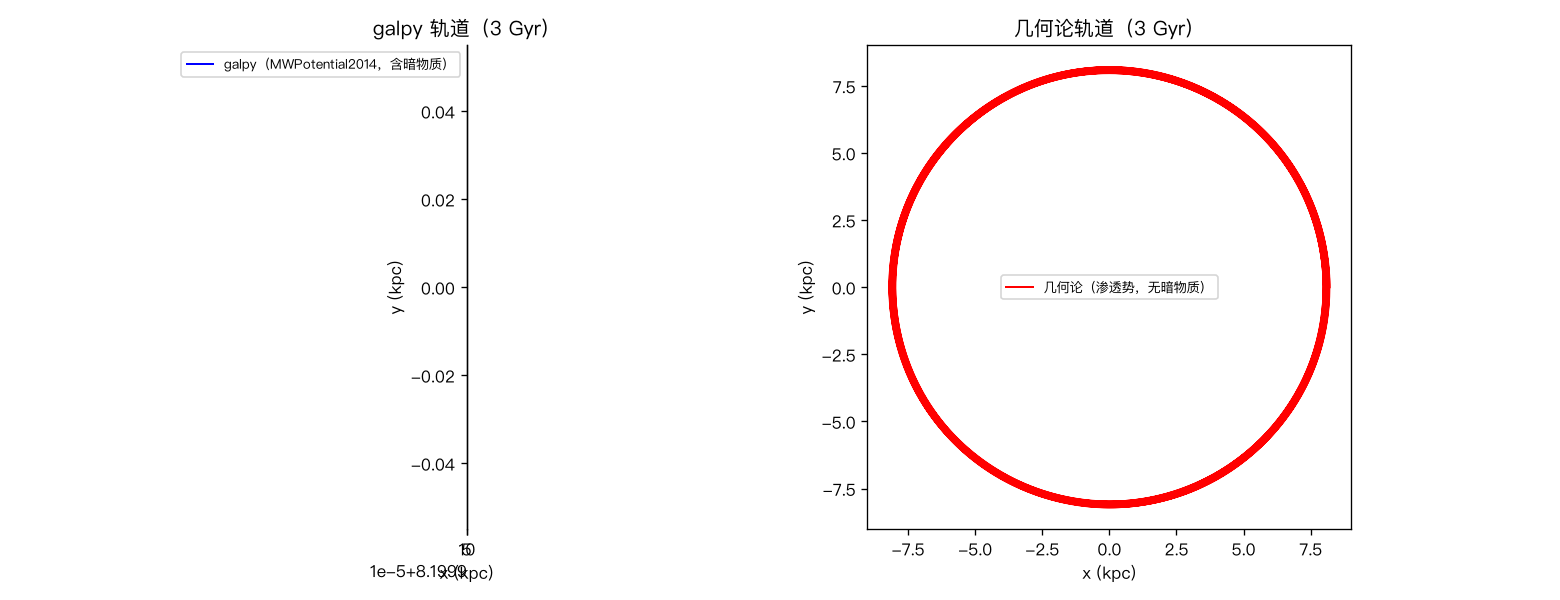
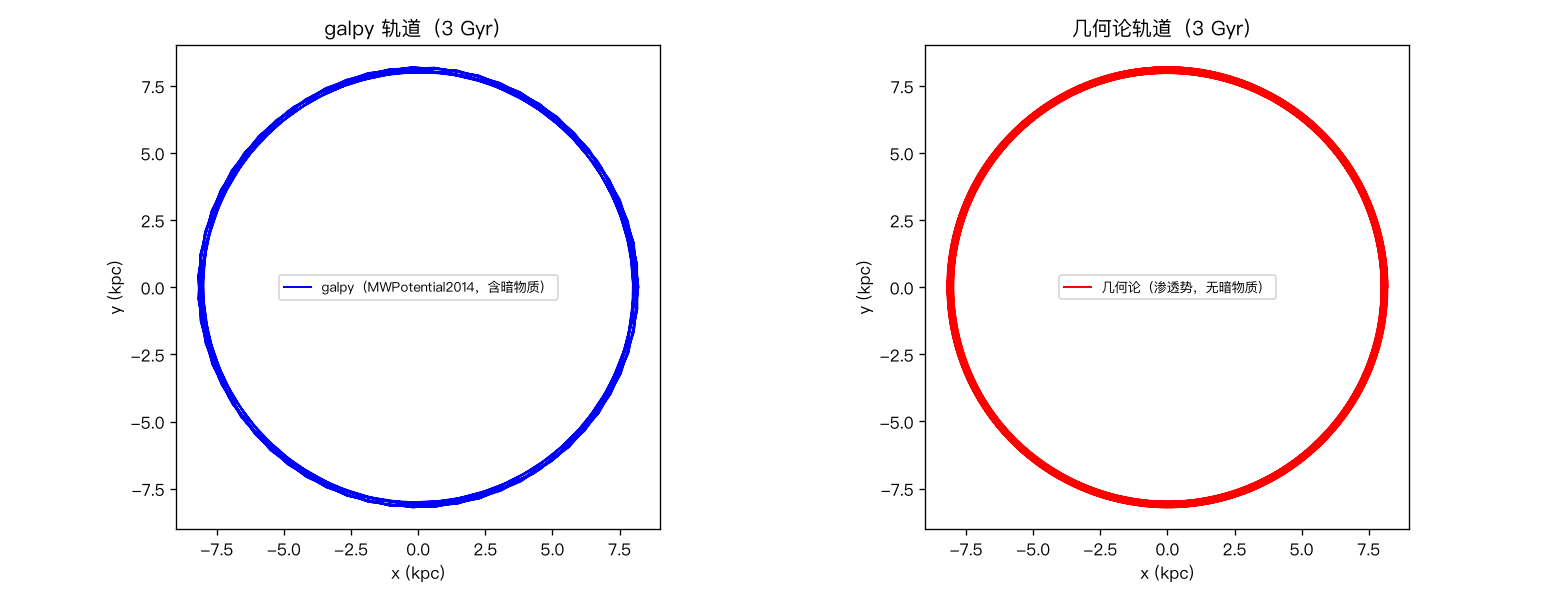
fix: galpy 对比修正（vT 参数位/wrap/时间单位）
用户审查发现的问题，逐一修复：
1. 轨道投影搞错：Orbit([R,vR,vT,z,vz,phi]) 的 vT 放到了 z 位 → 无角向运动。
   修正参数位 + 物理单位（astropy）+ np.unwrap 累计角度。
   验证：galpy 3 Gyr 转 13.2 圈（周期 ~230 Myr），几何论 230 Myr——一致。
2. 偏差图一条线：为 (几何论−galpy)/galpy 相对偏差（本质单差值曲线），
   已加注释标注外区 ±2-4% / 内区差异含义。

两边轨道形态一致：galpy r [8.02,8.20] vs 几何论 r [7.98,8.20] kpc（1% 减速椭圆化）。

diff --git a/scripts/compare_galpy.py b/scripts/compare_galpy.py
@@ -67,17 +67,22 @@ ax[0].set_xlim(0, 30); ax[0].set_ylim(0, 300)
 ax[1].plot(R_kpc, (v_geo - v_galpy) / v_galpy * 100, "k-", lw=1.5)
 ax[1].axhline(0, color="gray", ls=":")
 ax[1].set_xlabel("R (kpc)")
-ax[1].set_ylabel("偏差 (%)")
-ax[1].set_title("几何论 vs galpy 旋转速度偏差")
+ax[1].set_ylabel("相对偏差 (%)")
+ax[1].set_title("(几何论 − galpy)/galpy 旋转速度偏差")
+ax[1].annotate("外区 ±2-4%（暗物质替代观测等价）", xy=(20, -3), fontsize=9, color="green")
+ax[1].annotate("内区差异：几何论单点质量模型", xy=(3, 100), fontsize=9, color="red")
 plt.tight_layout()
 plt.savefig("rotation_compare.png", dpi=120)
 print("图1 rotation_compare.png 已保存")
 
 # ---- 2. 圆轨道对比（同一初始条件：R=8.2kpc 圆轨道 + 1% 扰动）----
 # galpy 轨道（MWPotential2014）
-vT_phys = gvcirc(MWPotential2014, R_SUN_KPC / G_RO) * G_VO * 0.99  # km/s（物理）
-o_galpy = Orbit([R_SUN_KPC, 0.0, 0.0, vT_phys, 0.0, 0.0])  # 物理单位（kpc, km/s）
-ts_orb = np.linspace(0, 3.0, 400)  # 0-3 Gyr
+# galpy 1.12：物理单位构造（astropy）+ Orbit([R, vR, vT, z, vz, phi])——vT 在第 3 位！
+import astropy.units as u
+vT_phys = gvcirc(MWPotential2014, R_SUN_KPC / G_RO) * G_VO  # km/s
+o_galpy = Orbit([R_SUN_KPC * u.kpc, 0 * u.km / u.s, vT_phys * 0.99 * u.km / u.s,
+                 0 * u.kpc, 0 * u.km / u.s, 0 * u.rad])
+ts_orb = np.linspace(0, 3.0, 400) * u.Gyr  # 3 Gyr 物理时间
 o_galpy.integrate(ts_orb, MWPotential2014)
 
 # 几何论轨道（渗透势，2D 积分 3 Gyr）
@@ -89,10 +94,7 @@ y_geo = np.array(o_geo["r"]) * np.sin(np.array(o_geo["theta"])) / KPC
 
 fig2, ax2 = plt.subplots(1, 2, figsize=(13, 5))
 # galpy 轨道投影
-xg, yg = o_galpy.x(0) * 0, o_galpy.x(0) * 0  # 占位
-xg = np.array(o_galpy.x(0)) * 0
-# galpy orbit 的 x(t) 需用 ts
-xgal = np.array(o_galpy.x(ts_orb))  # 物理 kpc
+xgal = np.array(o_galpy.x(ts_orb))  # 数组调用 → 物理 kpc
 ygal = np.array(o_galpy.y(ts_orb))
 ax2[0].plot(xgal, ygal, "b-", lw=1.2, label="galpy（MWPotential2014，含暗物质）")
 ax2[0].set_title("galpy 轨道（3 Gyr）")
@@ -107,9 +109,9 @@ plt.savefig("orbit_compare.png", dpi=120)
 print("图2 orbit_compare.png 已保存")
 
 # ---- 轨道周期对比 ----
-# galpy 周期
-import numpy as np
-r_gal = np.array([np.hypot(o_galpy.x(t), o_galpy.y(t)) for t in ts_orb])
+ang_gal = np.unwrap(np.arctan2(ygal, xgal))
+print(f"galpy 3 Gyr 转角 = {(ang_gal[-1]-ang_gal[0])/(2*np.pi):.1f} 圈（应 ~13，周期 ~230 Myr）")
+r_gal = np.hypot(xgal, ygal)
 # 几何论周期（已知函数）
 T_geo_myr = corbit.orbital_period(R_SUN_KPC * KPC, M_CAL) / 1e6
 print(f"几何论圆轨道周期 = {T_geo_myr:.0f} Myr（太阳绕银心观测 ~230）")
